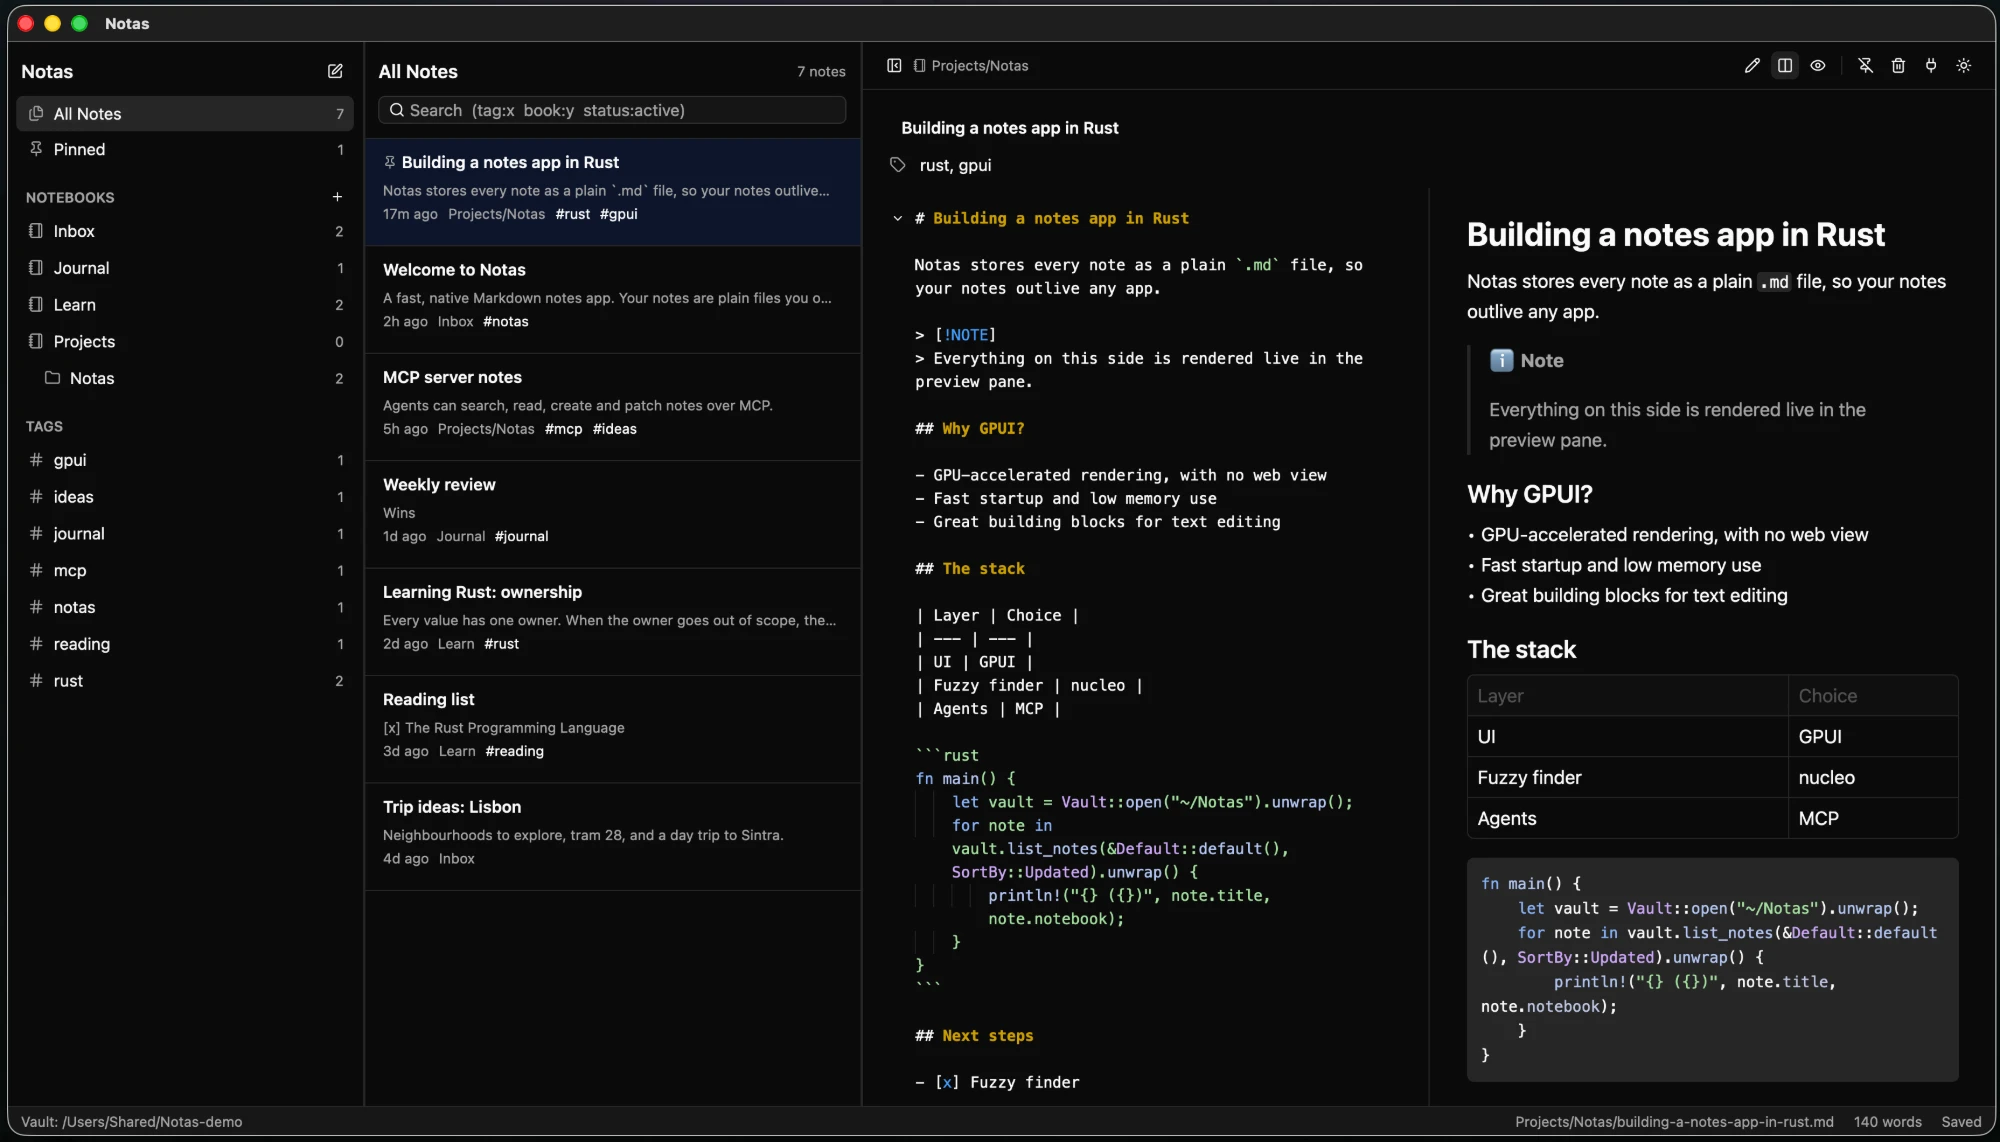
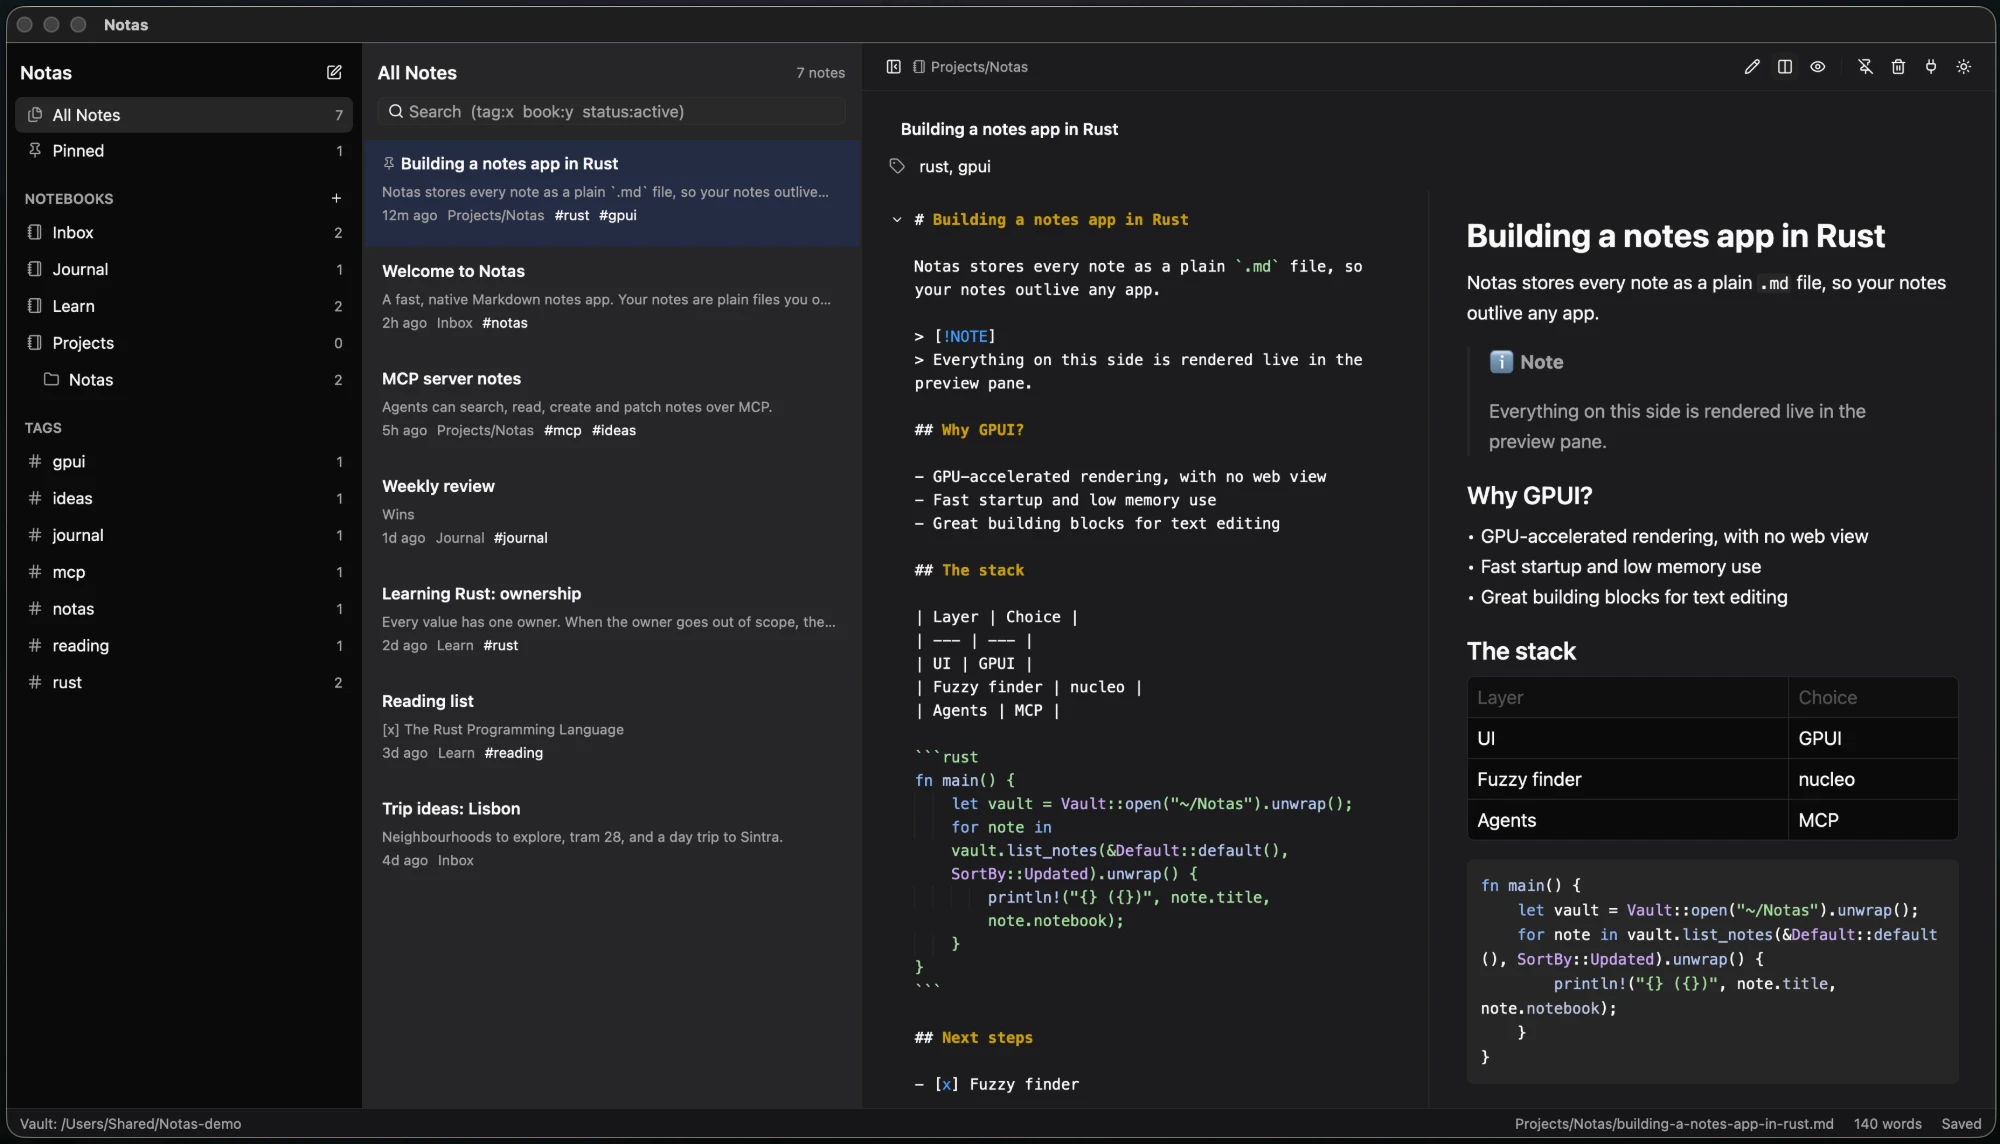
Notas landing page: new screenshot with the Liquid Glass design

diff --git a/notas/index.html b/notas/index.html
@@ -46,7 +46,7 @@
       <p class="notice" id="notice" hidden></p>
 
       <figure class="shot" id="shot" hidden>
-        <img src="screenshot.webp" width="2000" height="1142" alt="Notas in dark mode: notebooks and tags in the sidebar, a note list, and a Markdown note open in split view with the source on the left and the rendered preview on the right" />
+        <img src="screenshot.webp?v=2" width="2000" height="1144" alt="Notas in dark mode: notebooks and tags in the sidebar, a note list, and a Markdown note open in split view with the source on the left and the rendered preview on the right" />
       </figure>
     </section>
 
